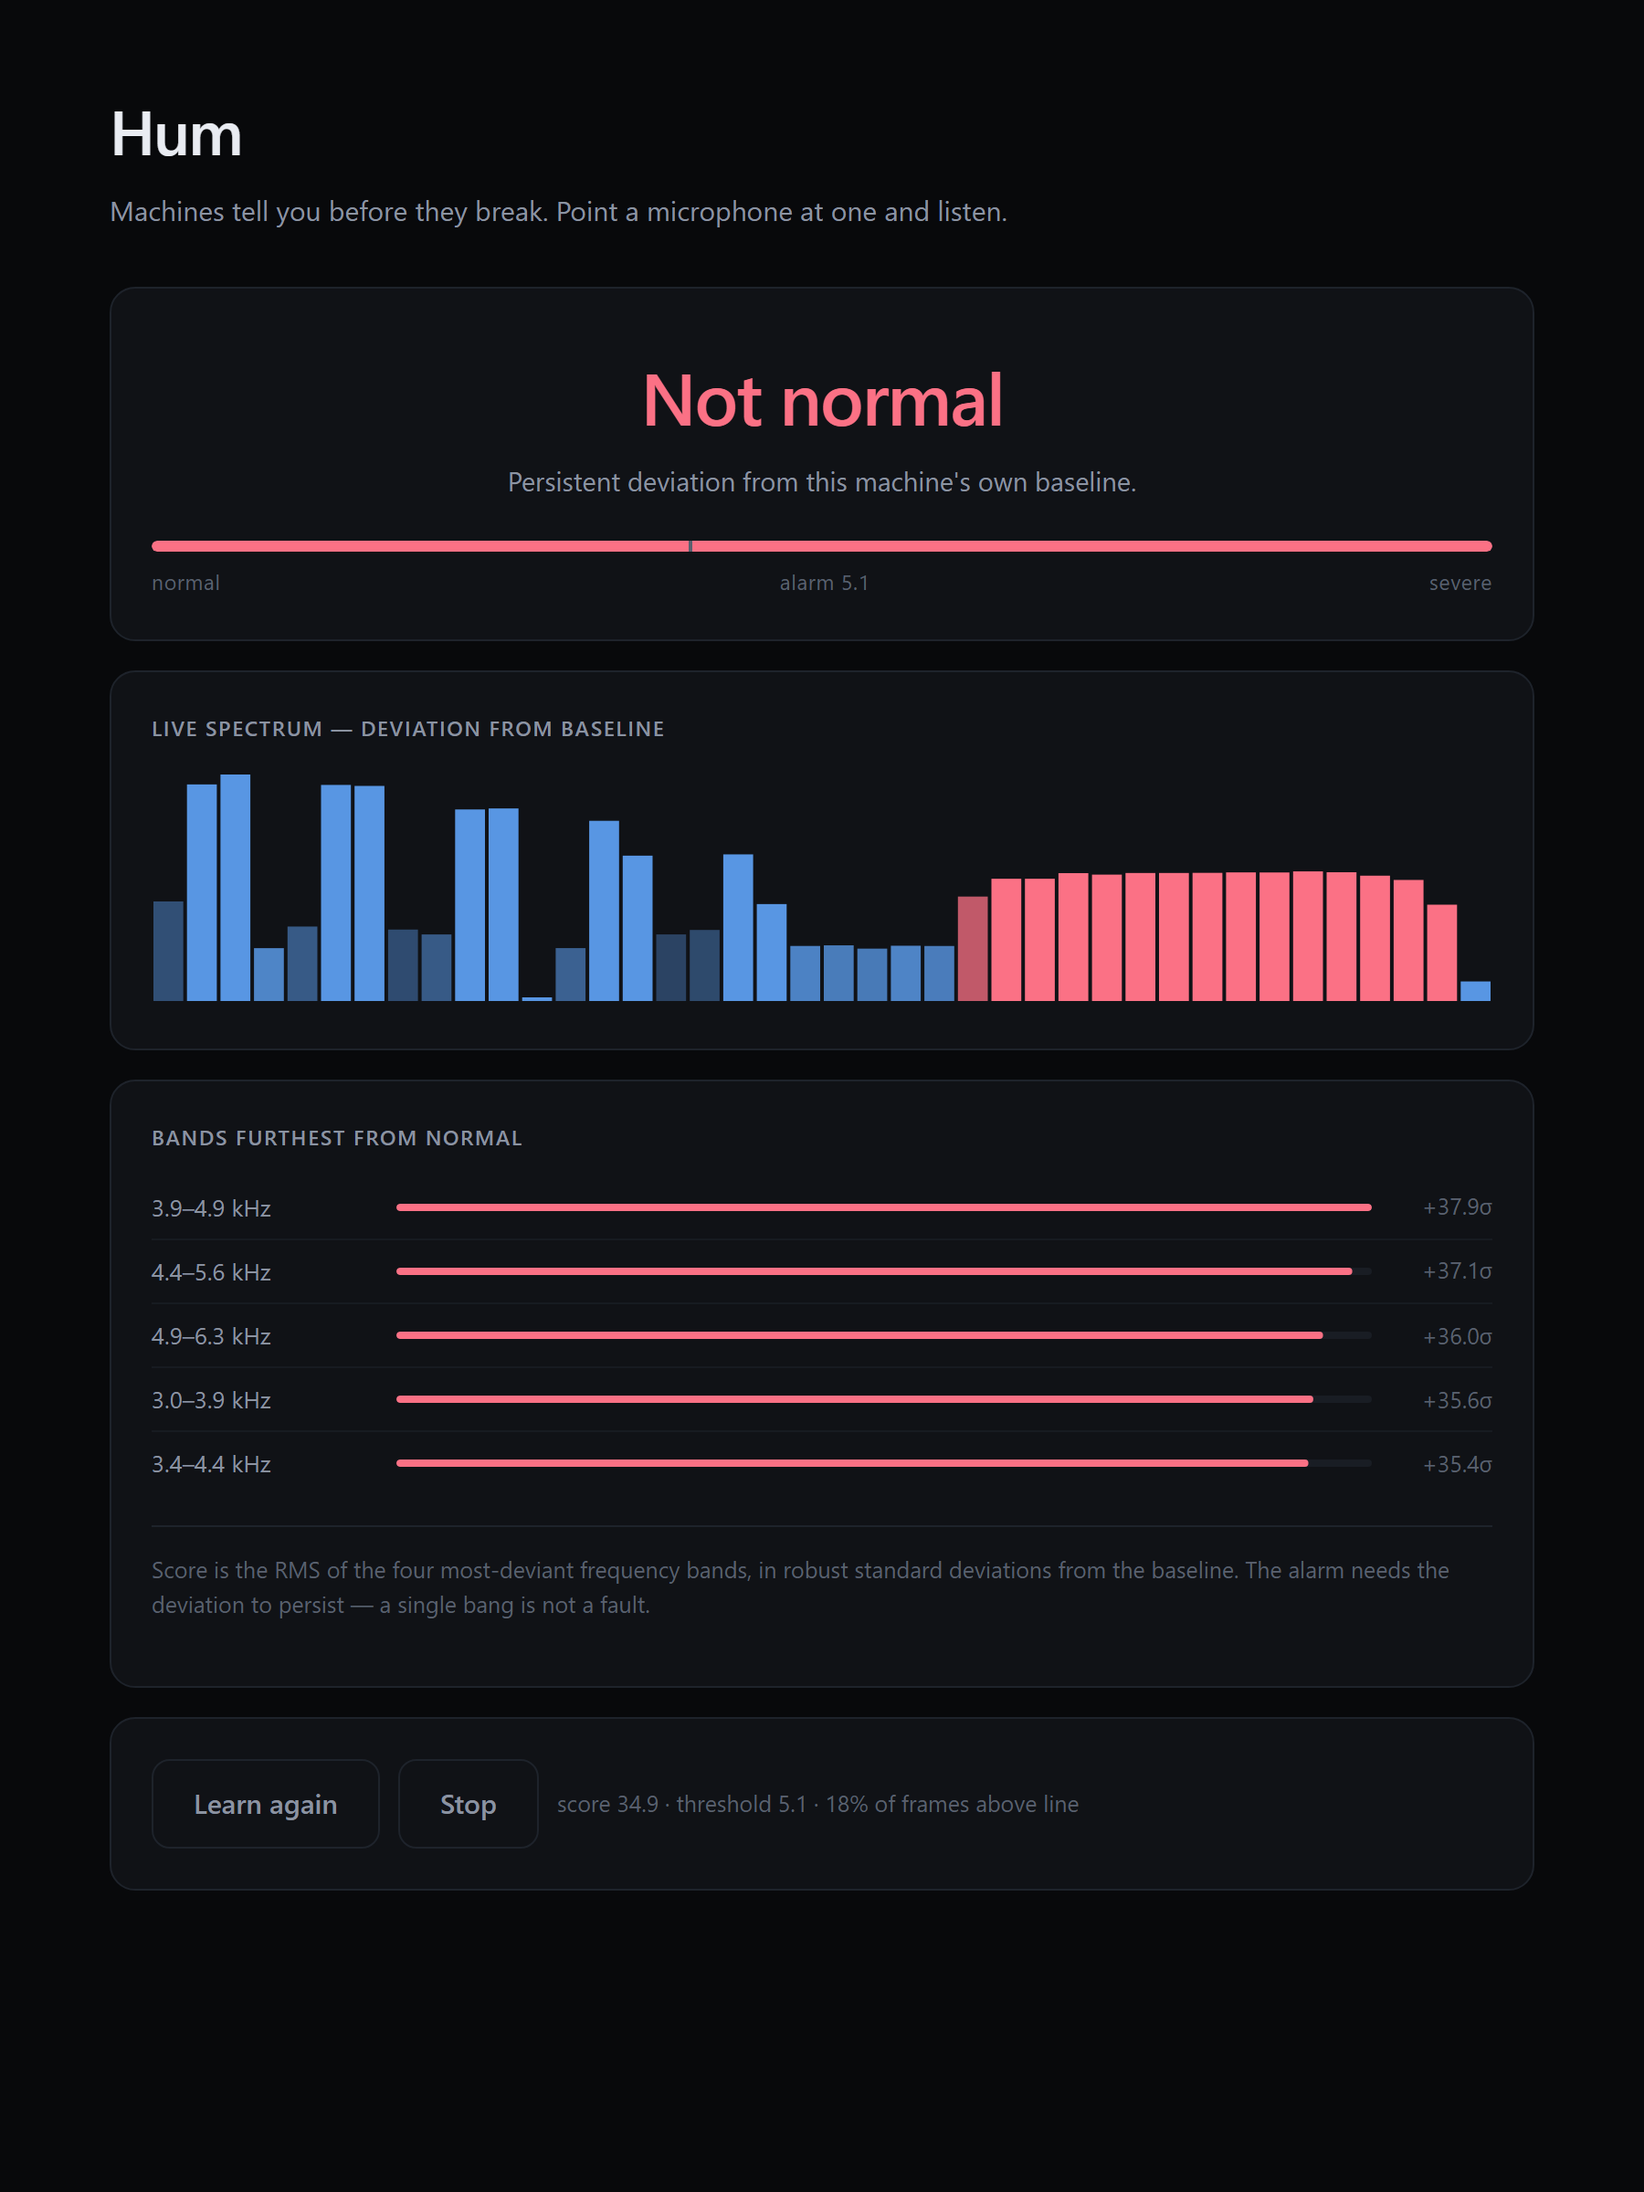
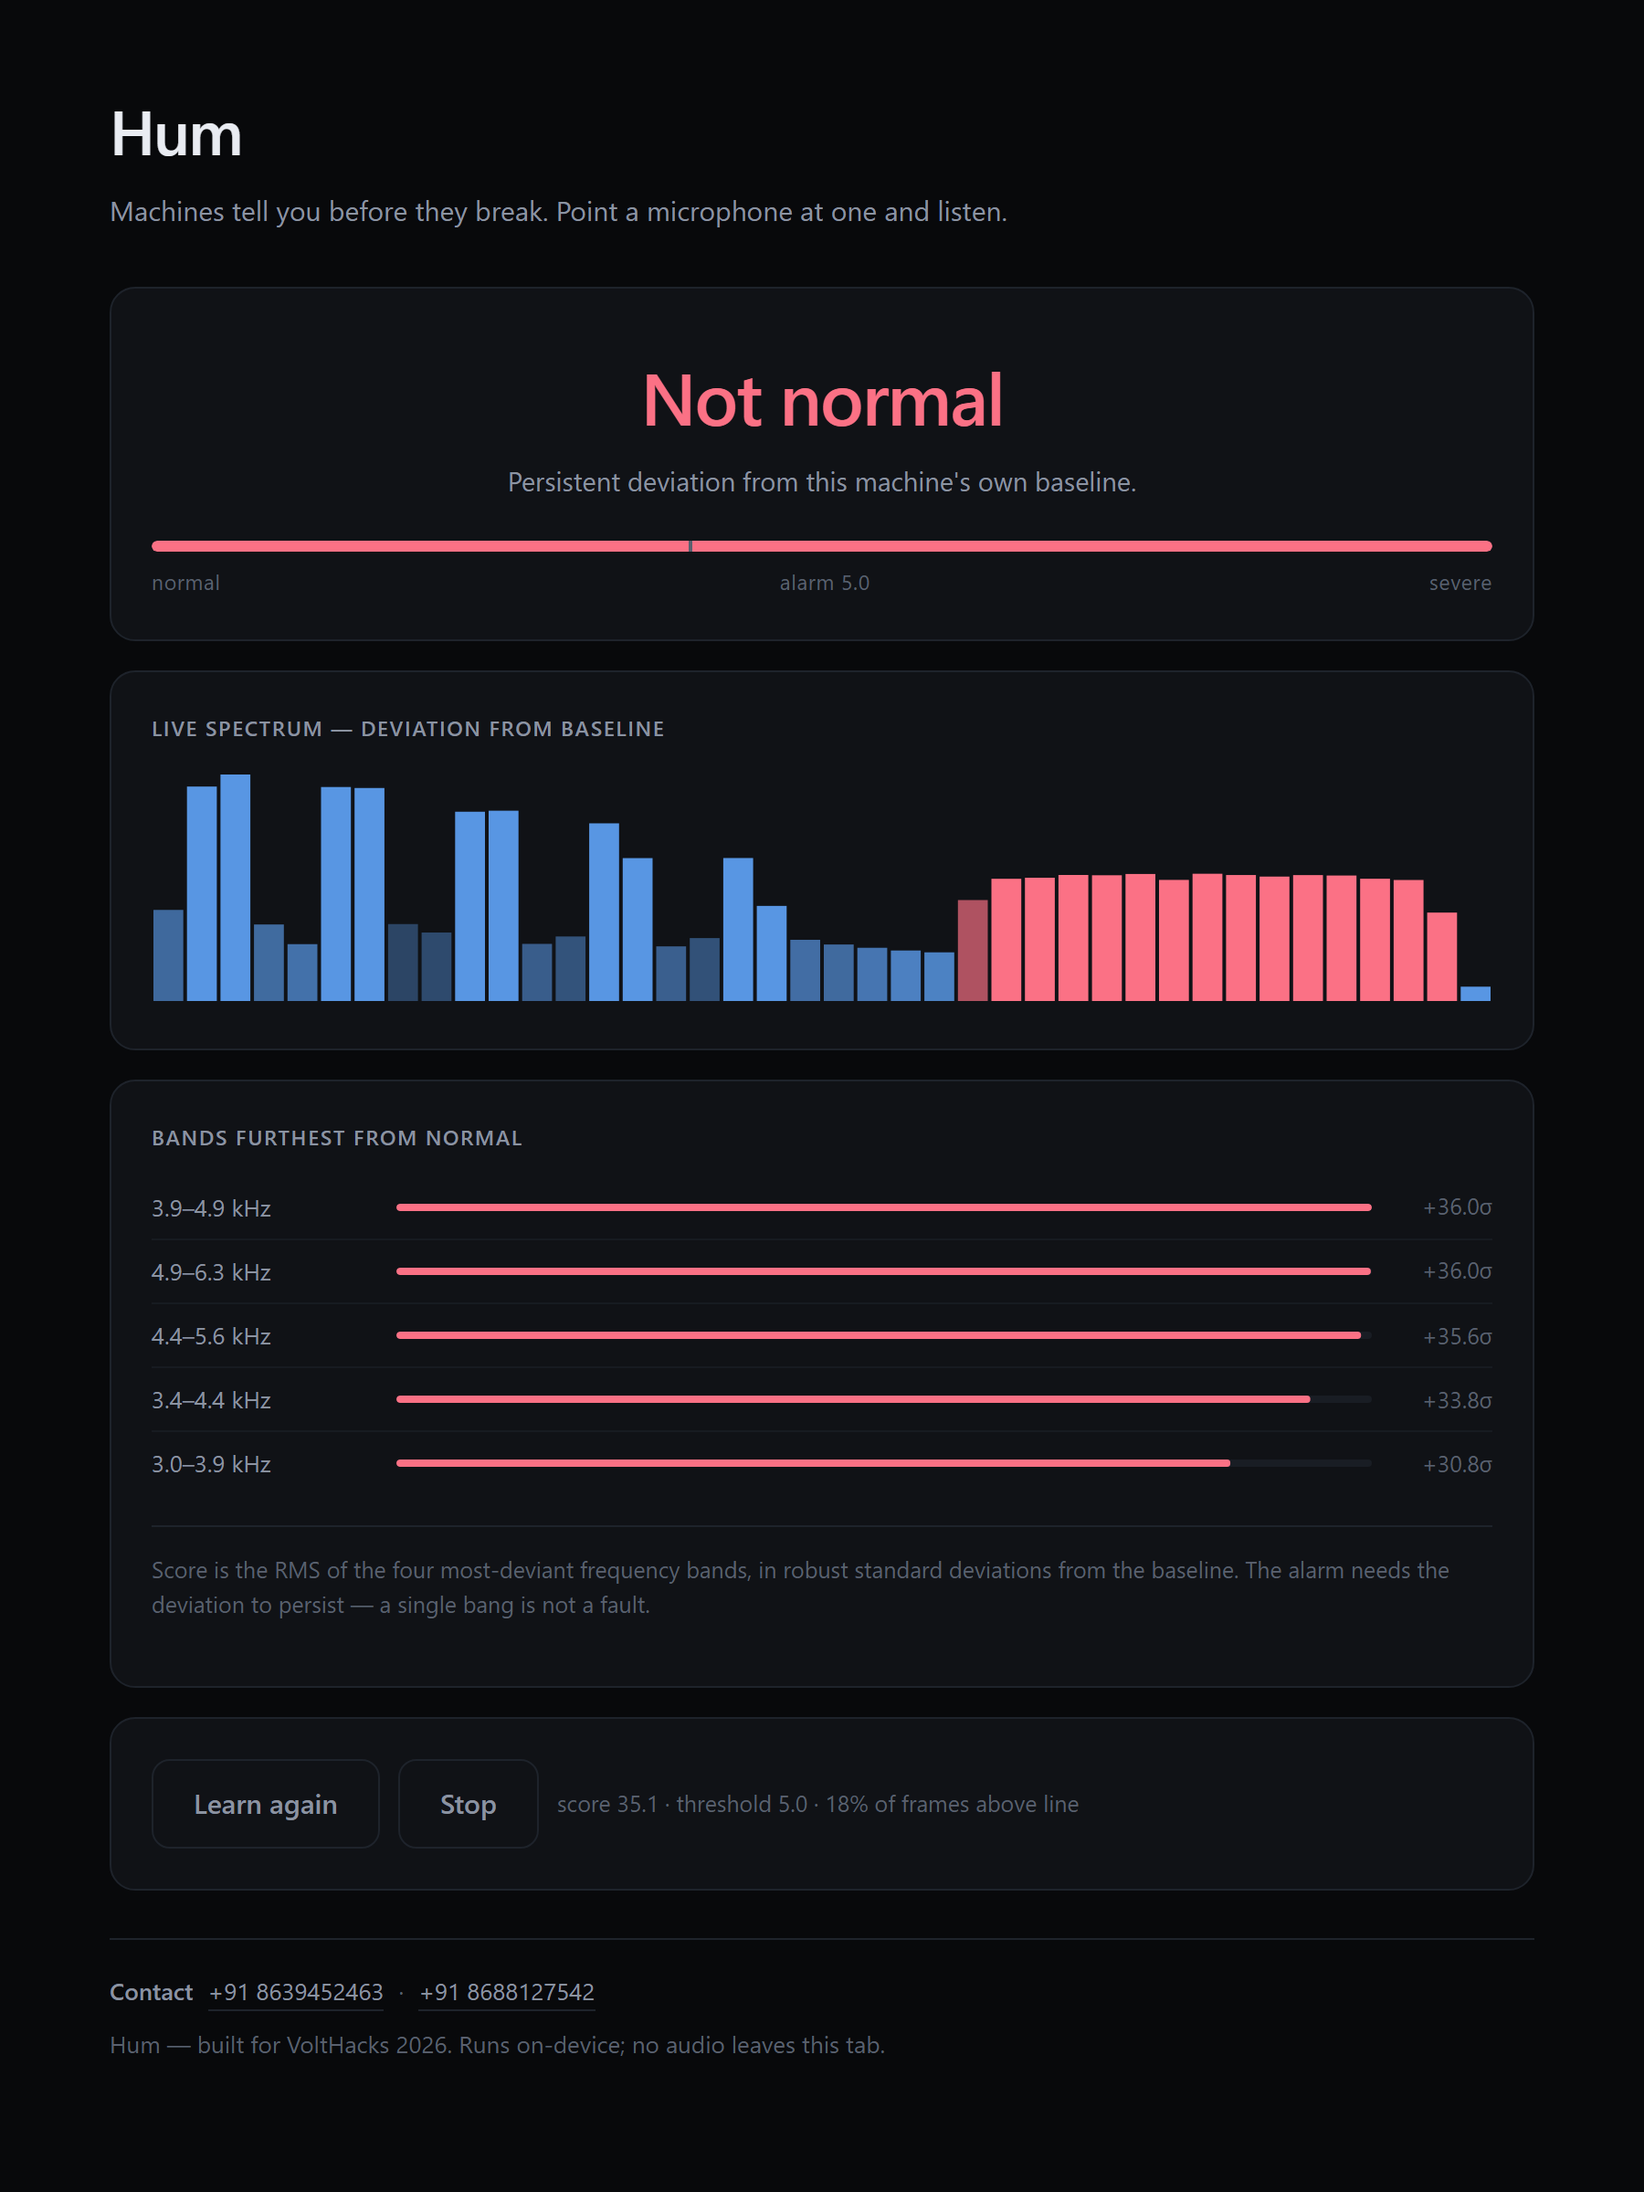
Add contact footer to the Hum web app

diff --git a/web/index.html b/web/index.html
@@ -161,6 +161,24 @@
   .err { color: var(--bad); font-size: 14px; margin-top: 14px; }
   .row { display: flex; gap: 10px; flex-wrap: wrap; align-items: center; }
 
+  /* ---- footer ---- */
+  footer {
+    margin-top: 26px; padding-top: 18px;
+    border-top: 1px solid var(--line);
+    color: var(--ink-faint); font-size: 13px;
+  }
+  footer .contact { display: flex; gap: 8px; flex-wrap: wrap; align-items: baseline; }
+  footer b { color: var(--ink-dim); font-weight: 550; }
+  footer a {
+    color: var(--ink-dim); text-decoration: none;
+    border-bottom: 1px solid var(--line);
+    transition: color 160ms var(--ease-out), border-color 160ms var(--ease-out);
+  }
+  @media (hover: hover) and (pointer: fine) {
+    footer a:hover { color: var(--well); border-color: var(--well); }
+  }
+  footer .built { margin-top: 8px; }
+
   @media (prefers-reduced-motion: reduce) {
     * { transition-duration: 120ms !important; }
     @starting-style { .view.on > * { opacity: 0; transform: none; } }
@@ -259,6 +277,16 @@
       <span class="note" style="border:0;margin:0;padding:0" id="stats"></span>
     </div>
   </section>
+
+  <footer>
+    <div class="contact">
+      <b>Contact</b>
+      <a href="tel:+918639452463">+91 8639452463</a>
+      <span>·</span>
+      <a href="tel:+918688127542">+91 8688127542</a>
+    </div>
+    <div class="built">Hum — built for VoltHacks 2026. Runs on-device; no audio leaves this tab.</div>
+  </footer>
 
 </main>
 
